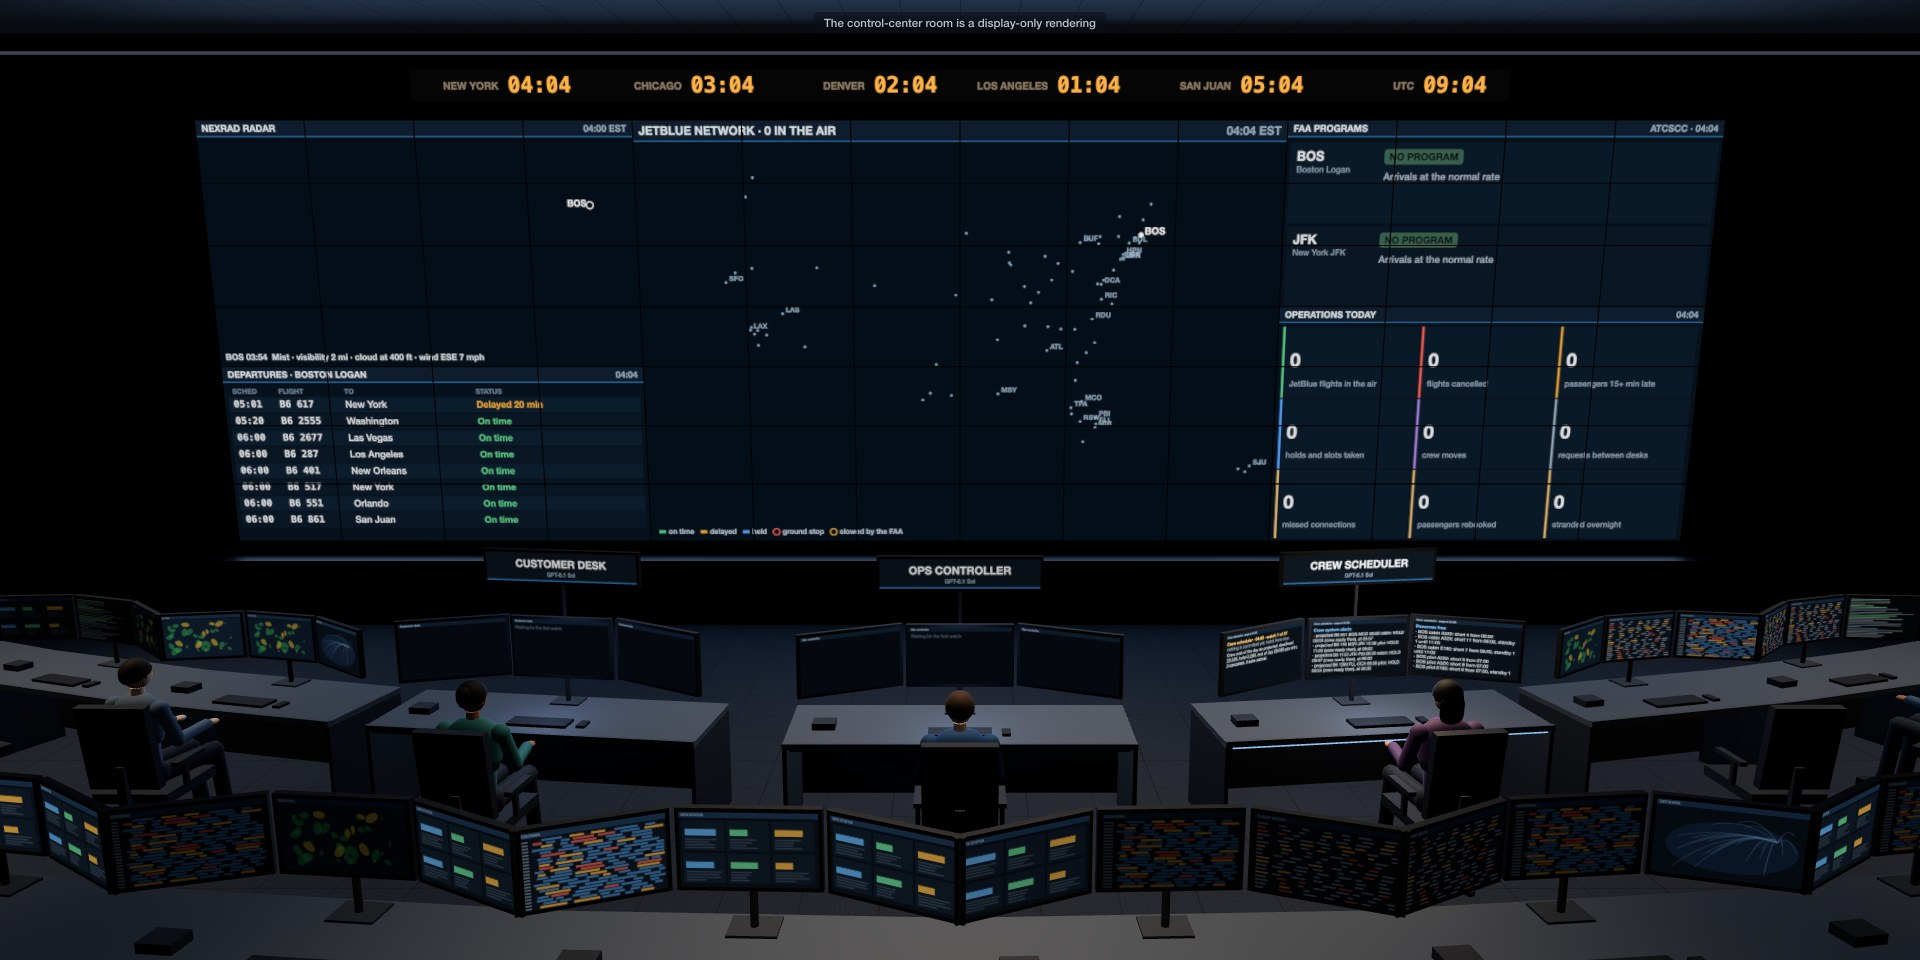
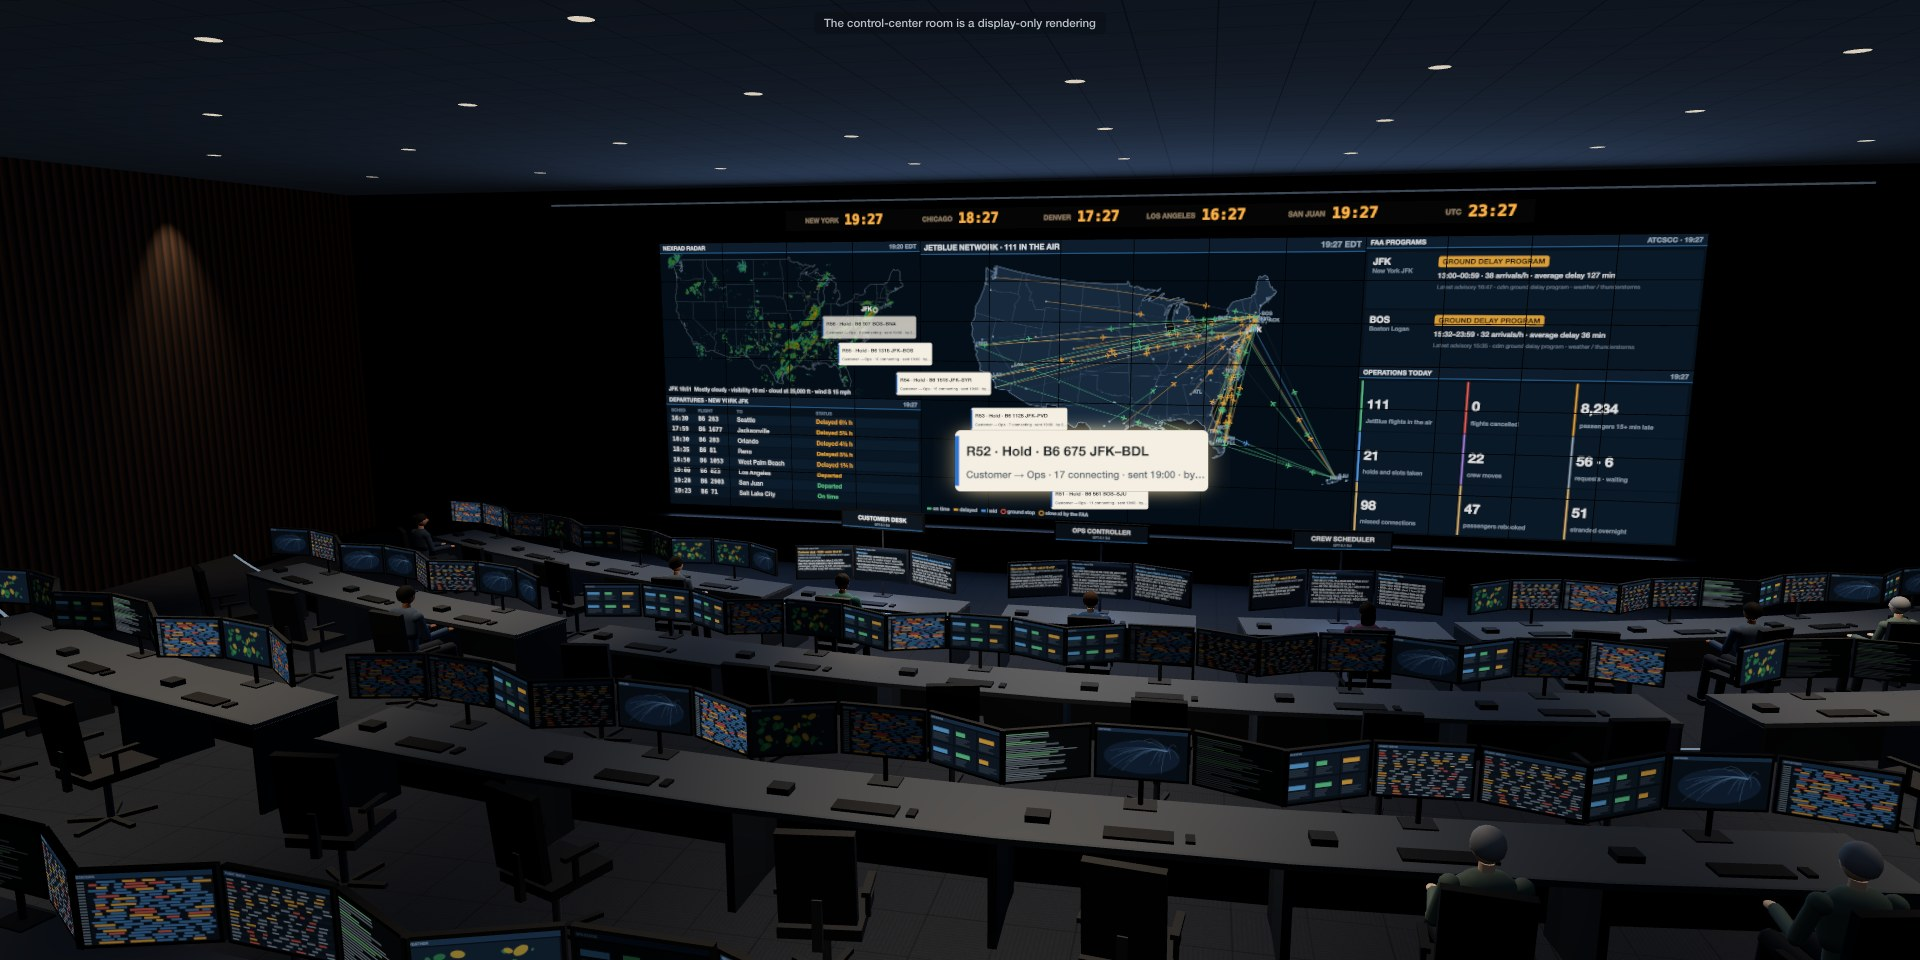
The v3 hero is three desks at Kennedy on 8 July 2025: its passengers at the counter and on the shuttle, and a request ops declines
The banner and poster are the room at 19:27, the customer desk's holds for connecting passengers on their way to ops
under a wall of live counters; the clip is the passengers who missed a connection reaching the service counter, the
stranded leaving on the hotel shuttle, the customer desk's request not to cancel B6 675 declined in the room, and
B6 675 staying at its gate. Boston on 10 December 2023 follows in both modes.

diff --git a/README.md b/README.md
@@ -1,6 +1,6 @@
 <div align="center">
 
-<a href="https://huggingface.co/spaces/earakely-scale/AirOpsEnv-AgentEnv?episode=https://huggingface.co/datasets/earakely-scale/AirOpsEnv-AgentEnv/resolve/v0.4.0/viewer/episodes/occ3-board-sol-joint.openai-gpt-6.1-sol.b6-20231210-0400.json&t=371&view=room&play=1&speed=2"><img src="assets/airops-occ3-banner.jpg" alt="AirOpsEnv v3: JetBlue's operations control center in 3D on the storm day of 10 December 2023, replayed from GPT-6.1 Sol's three desks: the customer desk, the ops controller and the crew scheduler at their pods under the video wall of the network at 04:04" width="100%"></a>
+<a href="https://huggingface.co/spaces/earakely-scale/AirOpsEnv-AgentEnv?episode=https://huggingface.co/datasets/earakely-scale/AirOpsEnv-AgentEnv/resolve/v0.4.0/viewer/episodes/occ3-board-sol-joint.openai-gpt-6.1-sol.b6-20250708-0400.json&t=498&view=room&play=1&speed=2"><img src="assets/airops-occ3-banner.jpg" alt="AirOpsEnv v3: JetBlue's operations control center in 3D at 19:27 on the storm day of 8 July 2025, replayed from GPT-6.1 Sol's three desks: the customer desk's holds for connecting passengers on their way to the ops controller under the video wall, with ground delay programs at JFK and Boston" width="100%"></a>
 
 <h1>AirOpsEnv v3: passengers and the customer desk</h1>
 
@@ -32,23 +32,25 @@ under a cost that follows every passenger to their final destination: against th
 that cost.
 
 <p align="center">
-  <a href="https://huggingface.co/spaces/earakely-scale/AirOpsEnv-AgentEnv?episode=https://huggingface.co/datasets/earakely-scale/AirOpsEnv-AgentEnv/resolve/v0.4.0/viewer/episodes/occ3-board-sol-joint.openai-gpt-6.1-sol.b6-20231210-0400.json&t=371&view=room&play=1&speed=2"><img src="assets/airops-occ3-hero.webp" width="100%" alt="GPT-6.1 Sol's three desks run JetBlue's control center through the storm of 10 December 2023: in the room the customer desk's hold of B6 333 for a connecting passenger is accepted, and at Boston Logan B6 333 pushes back held until 21:22"></a>
+  <a href="https://huggingface.co/spaces/earakely-scale/AirOpsEnv-AgentEnv?episode=https://huggingface.co/datasets/earakely-scale/AirOpsEnv-AgentEnv/resolve/v0.4.0/viewer/episodes/occ3-board-sol-joint.openai-gpt-6.1-sol.b6-20250708-0400.json&t=498&view=room&play=1&speed=2"><img src="assets/airops-occ3-hero.webp" width="100%" alt="GPT-6.1 Sol's three desks run JetBlue's control center through the storm of 8 July 2025: at Kennedy passengers who missed their connection reach the service counter and the stranded leave on the hotel shuttle, and in the room ops declines the customer desk's request not to cancel B6 675"></a>
 </p>
-<p align="center"><sub>Three GPT-6.1 Sol desks run JetBlue's network through the storm of Sunday 10 December 2023 at
-JFK and Boston (<code>b6-20231210-0400</code>), shown at Logan: 665 flights from 04:00 with 75,737 passenger trips, fog
-at Logan from first light and an FAA ground delay program there from 15:30. The crew scheduler makes 39 crew moves (31
-assignments, 6 deadheads, a reserve call and a release); the ops controller cancels 4 flights, 3 of them at the crew
-desk's request, and holds 26; the customer desk sends 44 requests, and ops accepts 23 of its 28 HOLDs, all 8 PROTECTs
-and its one SUGGEST_CANCEL. Flown on what really happened, the day costs 4.4% more than the best plan found and saves
-88% of what standard crew-desk practice leaves on the table: reward 0.825, against 0.663 for one Sol agent at all three
-desks and 0.308 for the standard crew desk. In the clip the customer desk's HOLD of B6 333 to San Francisco for a
-connecting passenger is accepted in the room and B6 333 pushes back held until 21:22; later B6 561 to San Juan, held
-until 23:26, takes off. Click it to replay the day in 3D, from the room at 06:11; the
+<p align="center"><sub>Three GPT-6.1 Sol desks run JetBlue's network through the storm of Tuesday 8 July 2025 at
+JFK and Boston (<code>b6-20250708-0400</code>), shown at Kennedy: 637 flights from 04:00 with 81,279 passenger trips, an
+FAA ground stop at JFK in the afternoon and ground delay programs at JFK and Boston into the night. The crew scheduler
+makes 24 crew moves (11 assignments, 7 deadheads, 3 reserve calls, 2 releases and a swap); the ops controller holds 31
+departures and cancels one flight; the customer desk sends 60 requests, and ops accepts 30 of its 46 HOLDs and 7 of its
+8 PROTECTs and declines its 3 SUGGEST_CANCELs. Flown on what really happened, the day costs 7.8% more than the best
+plan found and saves 85% of what standard crew-desk practice leaves on the table: reward 0.795, against 0.655 for one
+Sol agent at all three desks and 0.308 for the standard crew desk. In the clip 9 passengers who missed B6 135 to
+Phoenix reach the service counter, 17 passengers stranded overnight leave on the hotel shuttle, the customer desk asks
+ops not to cancel B6 675 to Hartford (51 passengers booked) and ops declines, and B6 675 stays at its gate, cancelled.
+Click it to replay the day in 3D, from the room at 08:18; the
 <a href="https://github.com/earakely-scale/agentenv-airops-plugin/releases/tag/v0.4.0">full film</a> and two more,
-Kennedy on 8 July 2025 and this day at one desk, are on the v0.4.0 release. Airport © OpenStreetMap contributors
-(ODbL), imagery USGS The National Map; flights BTS; advisories FAA ATCSCC; radar NEXRAD via the Iowa Environmental
-Mesonet; passengers generated from BTS T-100 and the DOT's Origin and Destination Survey. The control-center room, the
-crews' and passengers' paths, the lounges, the counter and the shuttle are drawn for display only.</sub></p>
+Boston on 10 December 2023 with three desks and with one agent, are on the v0.4.0 release. Airport © OpenStreetMap
+contributors (ODbL), imagery USGS The National Map; flights BTS; advisories FAA ATCSCC; radar NEXRAD via the Iowa
+Environmental Mesonet; passengers generated from BTS T-100 and the DOT's Origin and Destination Survey. The
+control-center room, the crews' and passengers' paths, the lounges, the counter and the shuttle are drawn for display
+only.</sub></p>
 
 **Contents:** [The customer desk](#the-customer-desk) · [Passengers](#passengers) · [Grading under P](#grading-under-p)
 · [The v3 board](#the-v3-board) · [Run v3](#run-v3) · [How v3 was validated](#how-v3-was-validated) ·

diff --git a/hub/dataset/README.md b/hub/dataset/README.md
@@ -30,16 +30,17 @@ agentenv:
 
 <div align="center">
 
-<a href="https://huggingface.co/spaces/earakely-scale/AirOpsEnv-AgentEnv?episode=https://huggingface.co/datasets/earakely-scale/AirOpsEnv-AgentEnv/resolve/v0.4.0/viewer/episodes/occ3-board-sol-joint.openai-gpt-6.1-sol.b6-20231210-0400.json&t=371&view=room&play=1&speed=2"><img src="https://raw.githubusercontent.com/earakely-scale/agentenv-airops-plugin/v0.4.0/assets/airops-occ3-hero.webp" alt="GPT-6.1 Sol's three desks run JetBlue's control center through the storm of 10 December 2023: in the room the customer desk's hold of B6 333 for a connecting passenger is accepted, and at Boston Logan B6 333 pushes back held until 21:22" width="100%"></a>
+<a href="https://huggingface.co/spaces/earakely-scale/AirOpsEnv-AgentEnv?episode=https://huggingface.co/datasets/earakely-scale/AirOpsEnv-AgentEnv/resolve/v0.4.0/viewer/episodes/occ3-board-sol-joint.openai-gpt-6.1-sol.b6-20250708-0400.json&t=498&view=room&play=1&speed=2"><img src="https://raw.githubusercontent.com/earakely-scale/agentenv-airops-plugin/v0.4.0/assets/airops-occ3-hero.webp" alt="GPT-6.1 Sol's three desks run JetBlue's control center through the storm of 8 July 2025: at Kennedy passengers who missed their connection reach the service counter and the stranded leave on the hotel shuttle, and in the room ops declines the customer desk's request not to cancel B6 675" width="100%"></a>
 
-<sub>Three GPT-6.1 Sol desks run JetBlue's network through the storm of Sunday 10 December 2023
-(<code>b6-20231210-0400</code>), shown at Boston Logan: 665 flights from 04:00 with 75,737 passenger trips, fog in the
-morning and an FAA ground delay program from 15:30. The crew scheduler makes 39 crew moves, the ops controller cancels
-4 flights and holds 26, and the customer desk sends 44 requests; ops accepts 23 of its 28 HOLDs, all 8 PROTECTs and its
-one SUGGEST_CANCEL. Flown on what really happened, the day saves 88% of what standard crew-desk practice leaves on the
-table: reward 0.825, against 0.663 for one Sol agent at all three desks and 0.308 for the standard crew desk. In the
-clip the customer desk's HOLD of B6 333 for a connecting passenger is accepted in the room and B6 333 pushes back held
-until 21:22. Click to replay the day in 3D: the control-center room and the airport.</sub>
+<sub>Three GPT-6.1 Sol desks run JetBlue's network through the storm of Tuesday 8 July 2025
+(<code>b6-20250708-0400</code>), shown at Kennedy: 637 flights from 04:00 with 81,279 passenger trips, an FAA ground
+stop in the afternoon and ground delay programs at JFK and Boston into the night. The crew scheduler makes 24 crew
+moves, the ops controller holds 31 departures and cancels one flight, and the customer desk sends 60 requests; ops
+accepts 30 of its 46 HOLDs and 7 of its 8 PROTECTs. Flown on what really happened, the day saves 85% of what standard
+crew-desk practice leaves on the table: reward 0.795, against 0.655 for one Sol agent at all three desks and 0.308 for
+the standard crew desk. In the clip passengers who missed their connection reach the service counter, the stranded
+leave on the hotel shuttle, and ops declines the customer desk's request not to cancel B6 675. Click to replay the day
+in 3D: the control-center room and the airport.</sub>
 
 <h1>AirOpsEnv v3: passengers and the customer desk</h1>
 
